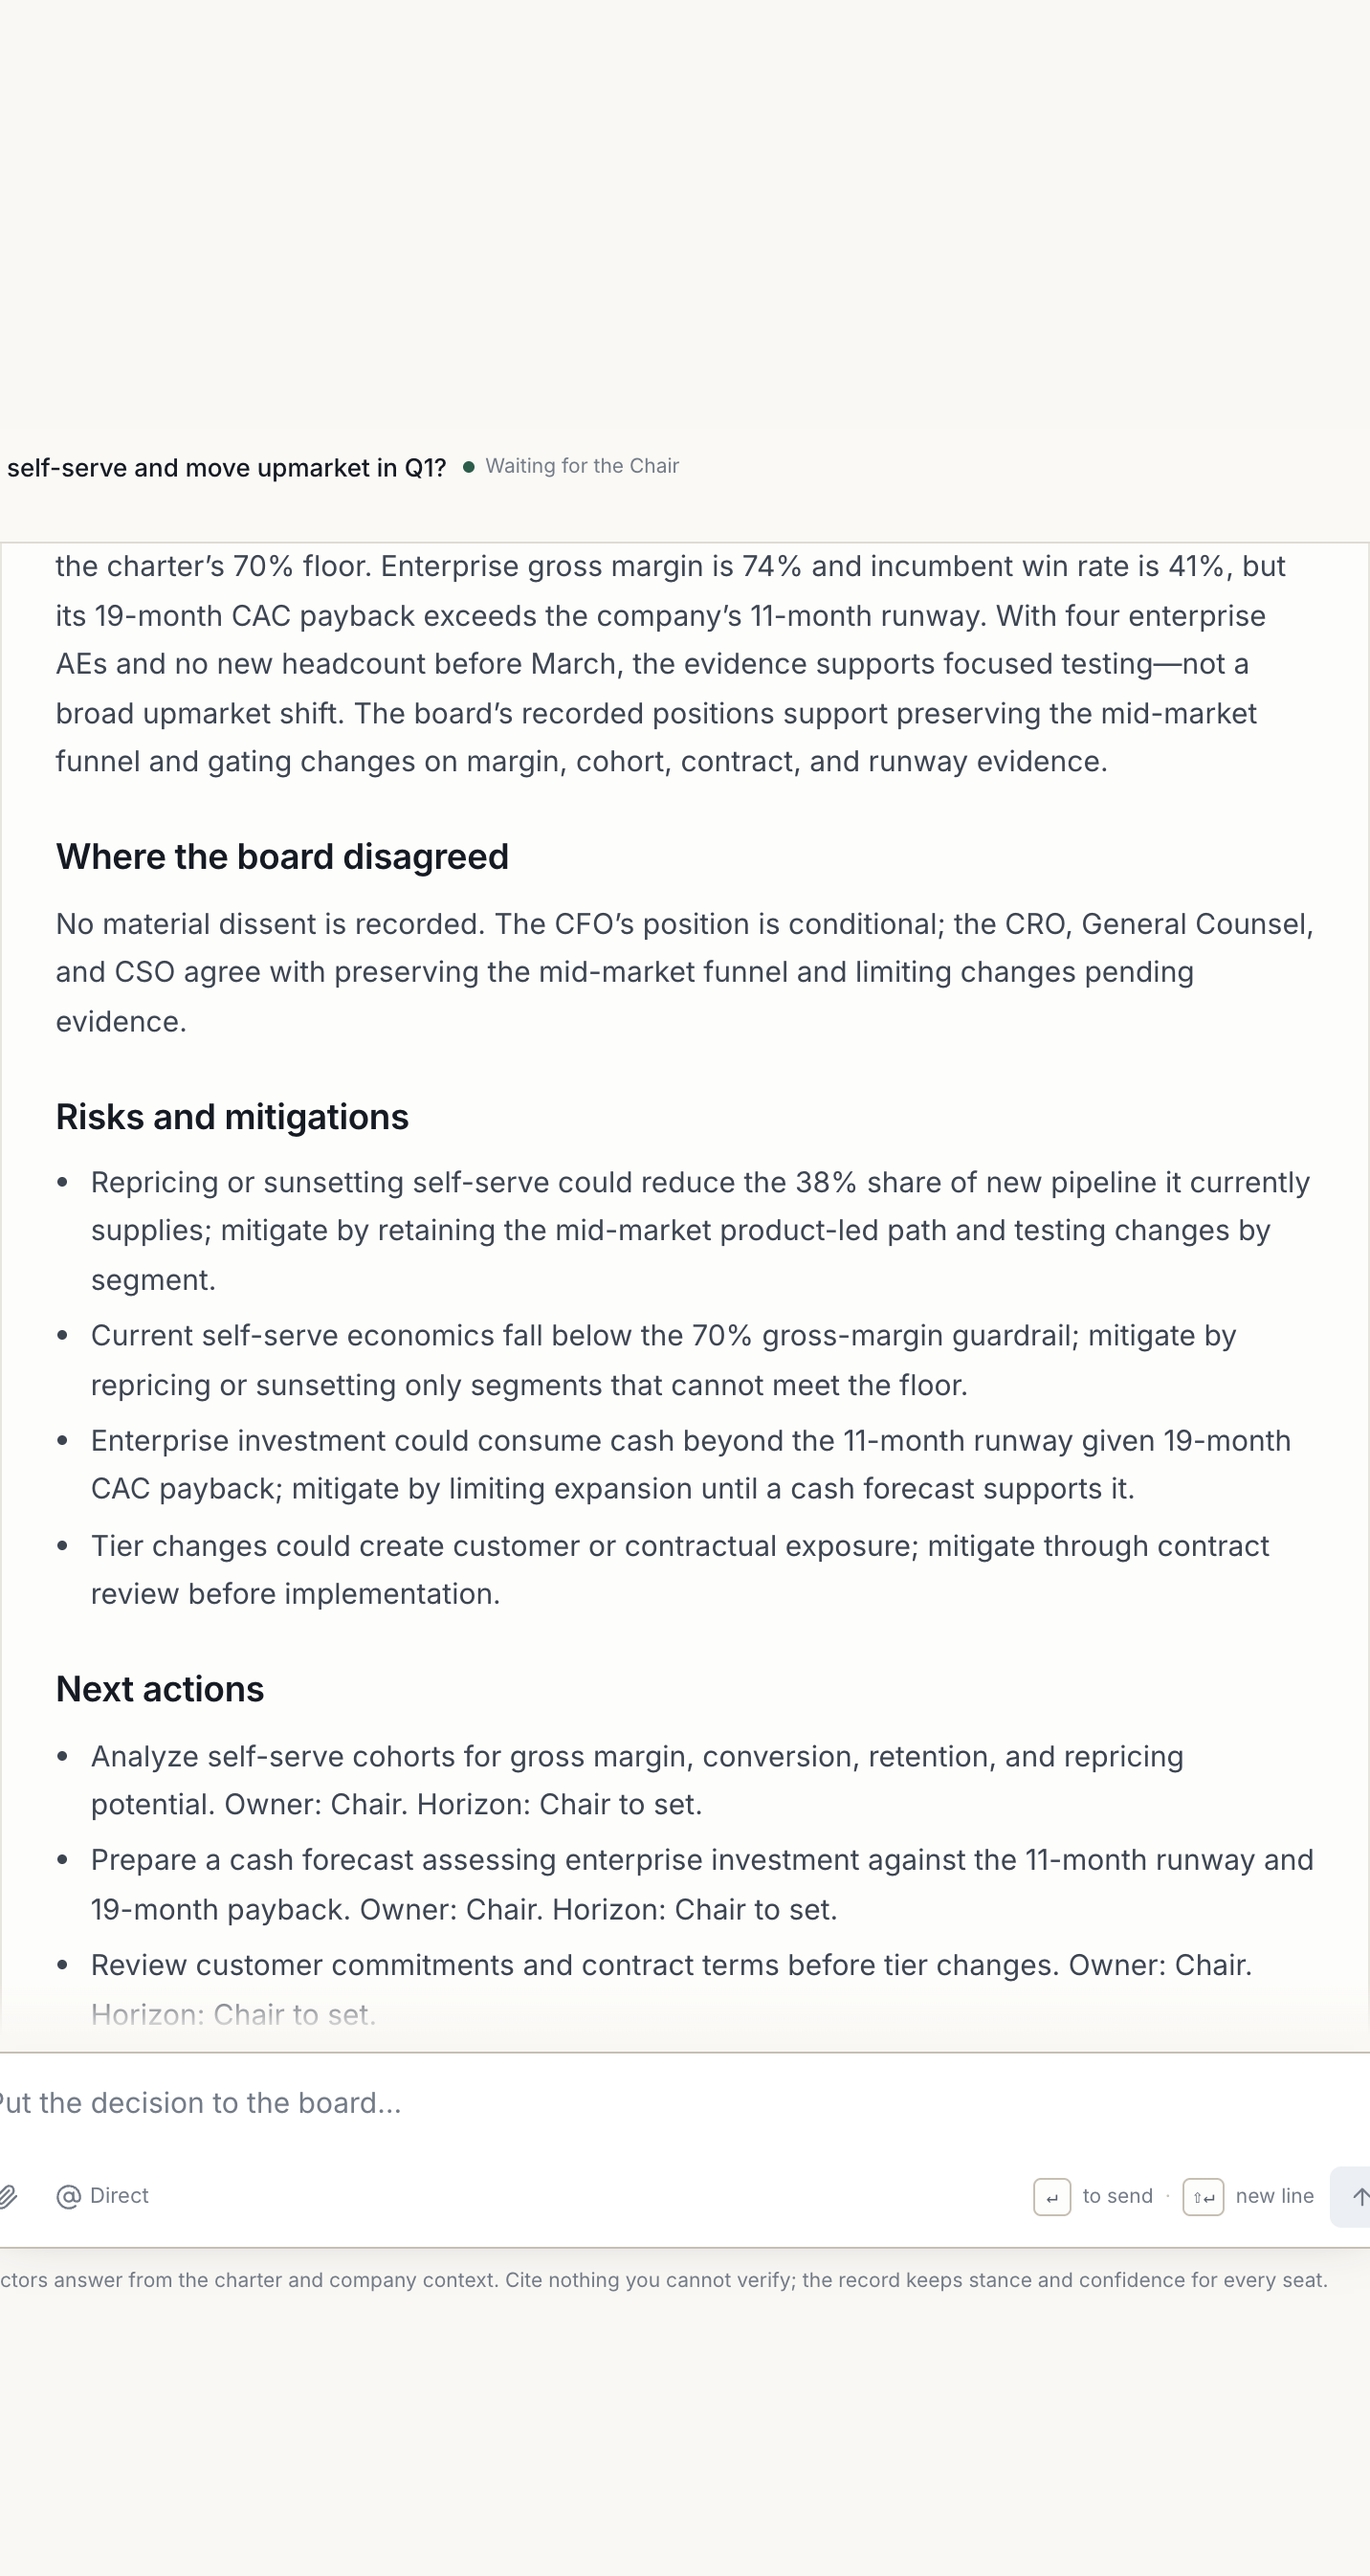
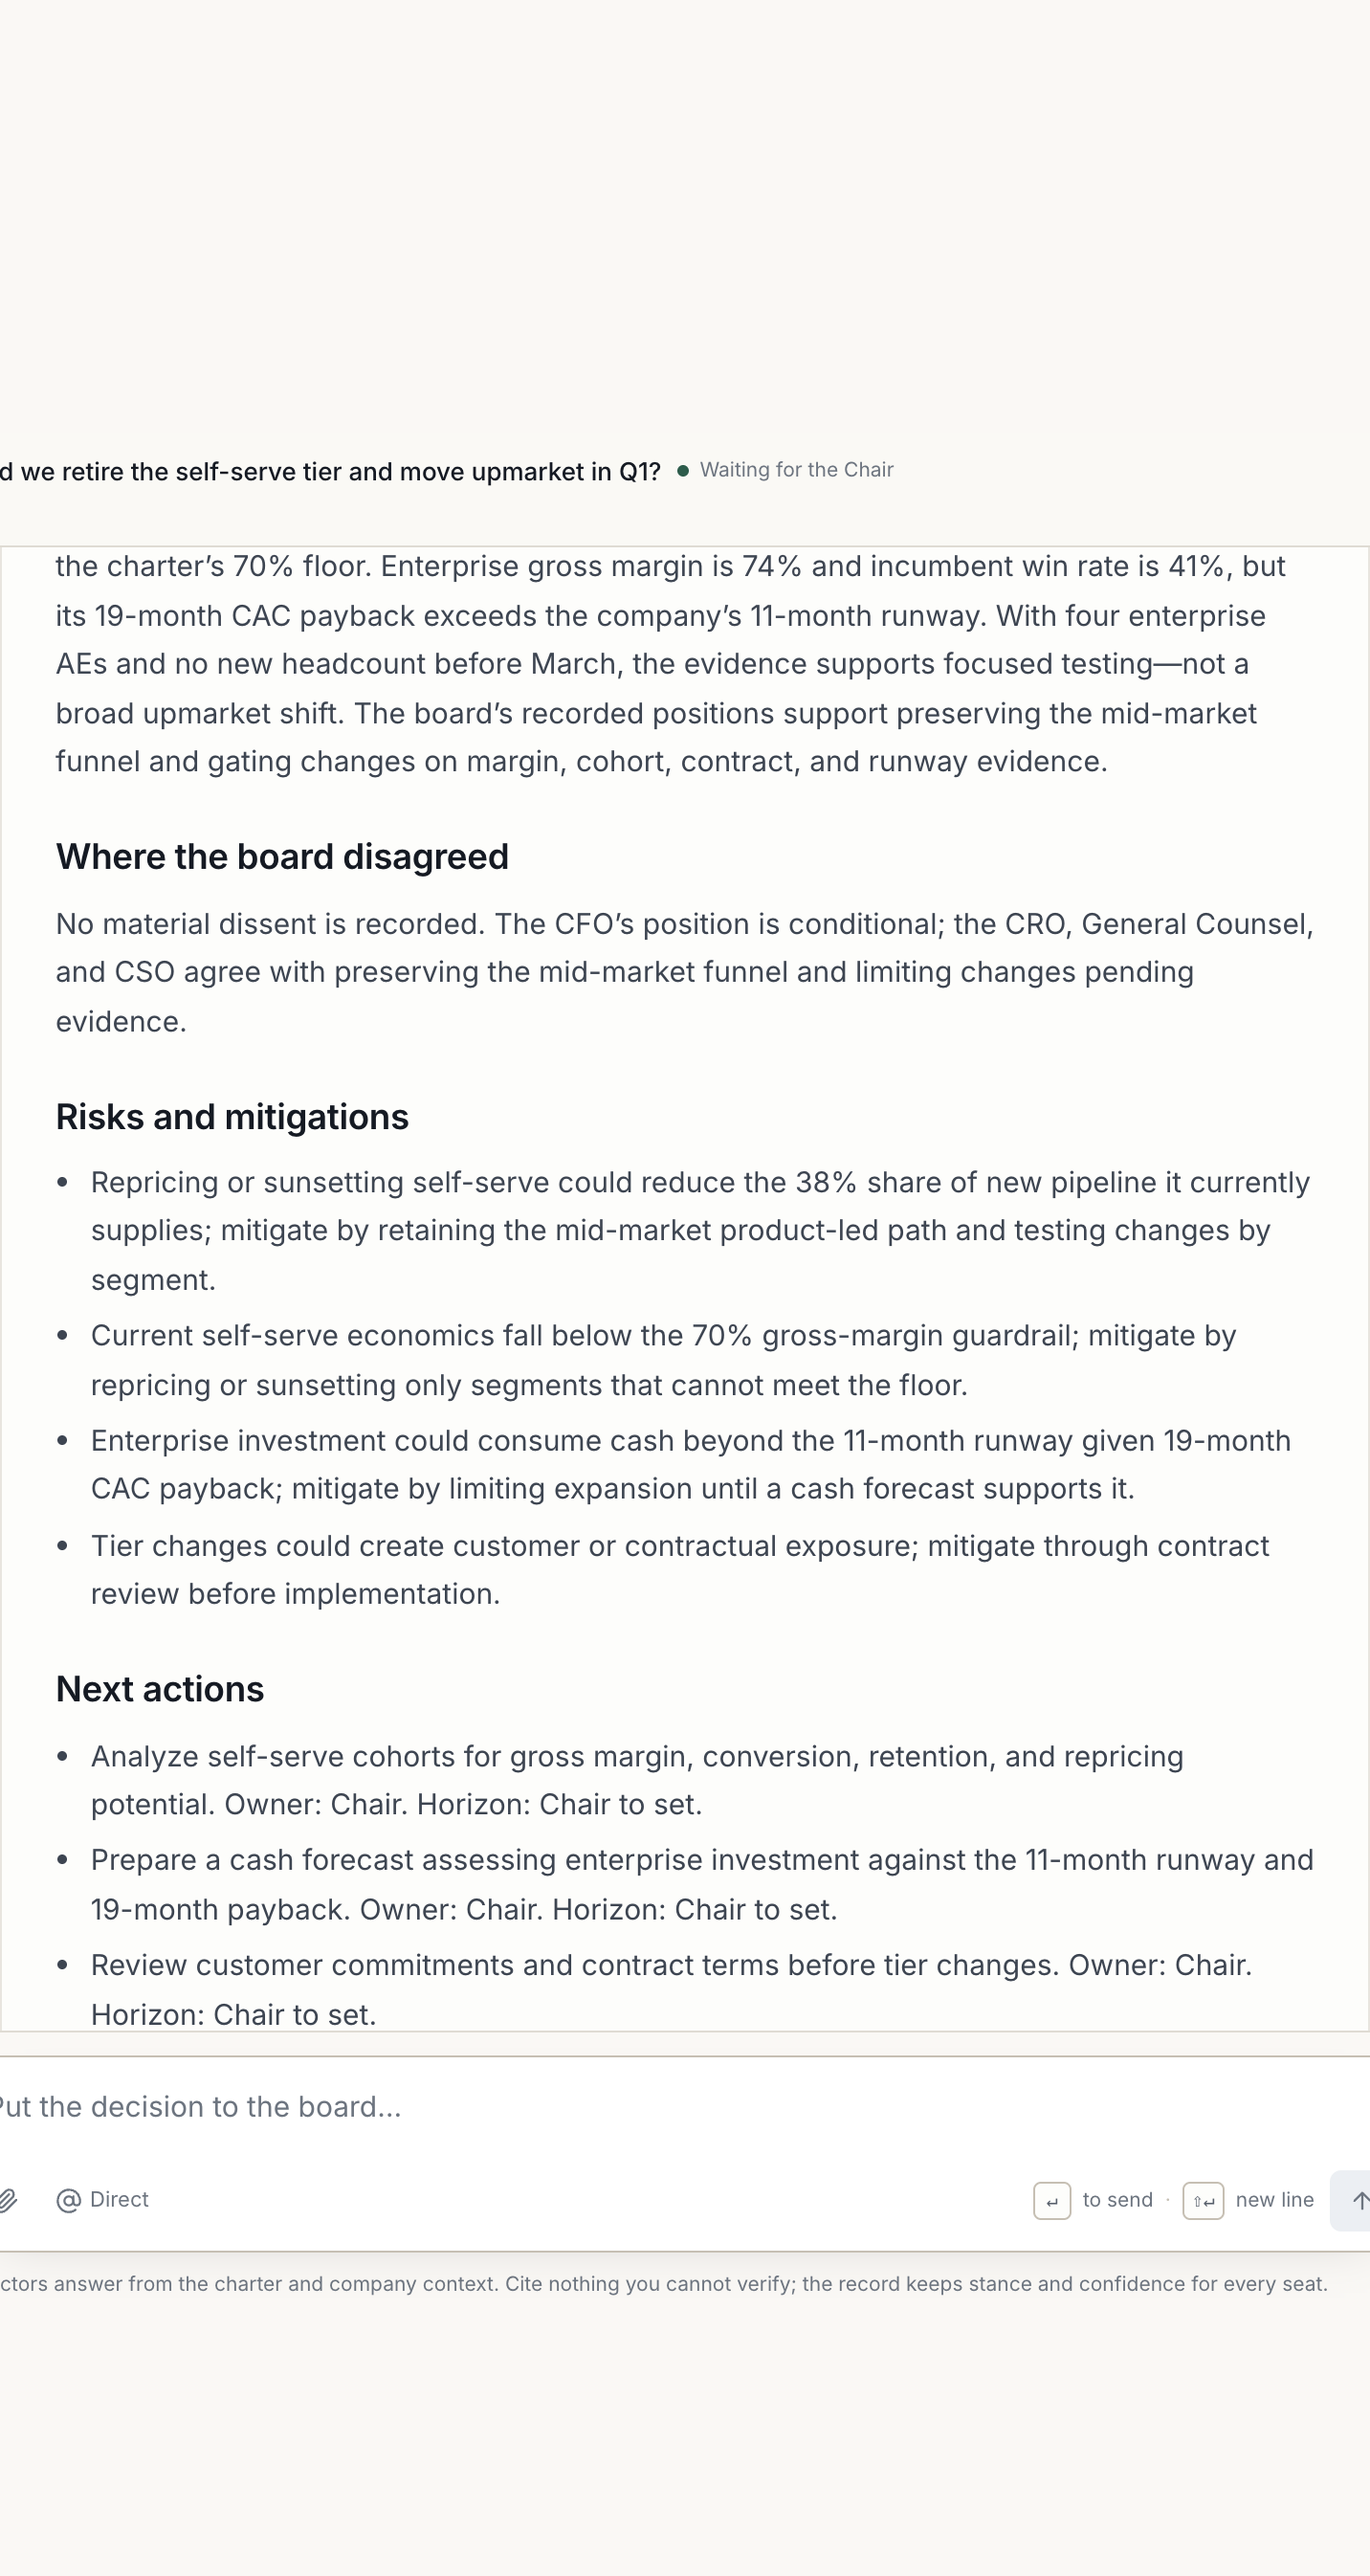
fix(onboarding): seat, convene, and brief a board in one pass
- Seat directors against the new conversation id instead of stale React state
- Cap preset seats to the plan limit and surface the limit in the empty state
- Derive a readable session title from the first sentence of the motion
- Show only the charter's guardrails under the masthead, not the question twice
- Move toasts to the top right and remove success toasts on auth
- Replace the composer fade with a hairline boundary
- Add an idempotent baseline migration runner for fresh deployments

diff --git a/client/src/pages/workspace.tsx b/client/src/pages/workspace.tsx
@@ -17,10 +17,11 @@ import {
   Users,
 } from "lucide-react";
 import { useAuth } from "@/hooks/use-auth";
+import { useToast } from "@/hooks/use-toast";
 import { useBoardRoom } from "@/hooks/use-board-room";
 import { useTheme } from "@/lib/theme";
 import { apiRequest } from "@/lib/queryClient";
-import { EXPERT_CATALOG } from "@shared/expert-catalog";
+import { EXPERT_CATALOG, TIER_EXPERT_LIMITS } from "@shared/expert-catalog";
 import { BoardModal } from "@/components/board/board-modal";
 import { CharterModal } from "@/components/board/charter-modal";
 import { CompanyModal } from "@/components/board/company-modal";
@@ -62,7 +63,7 @@ function EmptyBoard({
             autoFocus
             value={decision}
             onChange={(event) => setDecision(event.target.value)}
-            placeholder="Should we retire the self-serve tier and move upmarket in Q1? Guardrails: gross margin ≥ 70%, no new headcount before March, keep the PLG funnel for mid-market."
+            placeholder="State the decision in one or two sentences. Add the guardrails that constrain it, and the facts the board should not have to guess."
             className="min-h-[104px] border-0 bg-transparent px-2 py-1 font-display text-[17px] leading-relaxed shadow-none focus:ring-0"
           />
           <div className="flex flex-wrap items-center justify-between gap-3 border-t border-line px-2 pt-3">
@@ -79,14 +80,17 @@ function EmptyBoard({
         <div className="mt-6">
           <div className="flex items-center justify-between">
             <p className="text-[10px] font-semibold uppercase tracking-[0.14em] text-faint-ink">Choose a starting board</p>
-            <button
-              type="button"
-              onClick={() => onConvene(decision, "empty")}
-              disabled={!decision.trim() || isCreating}
-              className="text-[10.5px] text-faint-ink hover:text-ink disabled:opacity-40"
-            >
-              Seat them manually →
-            </button>
+            <div className="flex items-center gap-3">
+              <span className="hidden text-[10px] text-faint-ink sm:inline">Associate seats 3 · Executive 8</span>
+              <button
+                type="button"
+                onClick={() => onConvene(decision, "empty")}
+                disabled={!decision.trim() || isCreating}
+                className="text-[10.5px] text-faint-ink hover:text-ink disabled:opacity-40"
+              >
+                Seat them manually →
+              </button>
+            </div>
           </div>
           <div className="mt-2 grid gap-2 sm:grid-cols-2">
             {BOARD_PRESETS.map((preset) => (
@@ -110,6 +114,13 @@ function EmptyBoard({
             ))}
           </div>
         </div>
+
+        <div className="mt-10 flex flex-wrap items-center gap-x-6 gap-y-2 border-t border-line pt-4 text-[10px] uppercase tracking-[0.14em] text-faint-ink">
+          <span>Private workspace</span>
+          <span>Your model keys</span>
+          <span>Export always</span>
+          <span className="ml-auto normal-case tracking-normal">Three seats on the house, no card.</span>
+        </div>
       </div>
     </div>
   );
@@ -130,6 +141,12 @@ function SessionIntro({
   onEditCharter: () => void;
   onOpenBoard: () => void;
 }) {
+  // The masthead already states the motion. Show only the charter text that
+  // adds to it (guardrails, stop criteria) instead of repeating the question.
+  const charterRemainder = charter
+    ? (charter.startsWith(title) ? charter.slice(title.length) : charter).replace(/^[\s—–:,-]+/, "").trim()
+    : "";
+
   return (
     <div className="border-b border-line pb-7 pt-9">
       <div className="flex items-center justify-between gap-3">
@@ -141,11 +158,11 @@ function SessionIntro({
       <h1 className="mt-3 font-display text-[clamp(1.8rem,3.2vw,2.6rem)] leading-[1.08] text-ink">
         {title}
       </h1>
-      {charter ? (
+      {charterRemainder ? (
         <div className="mt-4 border-l-2 border-bronze/50 pl-4">
-          <p className="whitespace-pre-wrap text-[13.5px] leading-relaxed text-ink-soft">{charter}</p>
+          <p className="whitespace-pre-wrap text-[13.5px] leading-relaxed text-ink-soft">{charterRemainder}</p>
         </div>
-      ) : (
+      ) : !charter ? (
         <button
           type="button"
           onClick={onEditCharter}
@@ -154,7 +171,7 @@ function SessionIntro({
           This session has no charter. Write the motion and the guardrails so every director argues
           the same question.
         </button>
-      )}
+      ) : null}
       <div className="mt-5 flex flex-wrap items-center gap-2">
         <button
           type="button"
@@ -272,6 +289,7 @@ function CommandPalette({
 
 export default function WorkspacePage() {
   const { user, isLoading, logoutMutation } = useAuth();
+  const { toast } = useToast();
   const board = useBoardRoom();
   const { theme, setTheme } = useTheme();
   const queryClient = useQueryClient();
@@ -340,21 +358,28 @@ export default function WorkspacePage() {
     if (!text) return;
     setConvening(true);
     try {
-      const title = text.length > 72 ? `${text.slice(0, 69).trimEnd()}…` : text;
+      const firstSentence = text.split(/(?<=[?.!])\s/)[0] || text;
+      const title = firstSentence.length > 140 ? `${firstSentence.slice(0, 137).trimEnd()}…` : text;
       const conversation = await board.startSession(title);
       await apiRequest("PUT", `/api/protected/conversations/${conversation.id}`, { charter: text });
       const preset = BOARD_PRESETS.find((item) => item.id === presetId);
+      // A preset can list more seats than the plan allows. Seat the first N
+      // that fit; the Chair can swap seats in Board settings afterwards.
+      const seatLimit = TIER_EXPERT_LIMITS[(user?.tier as keyof typeof TIER_EXPERT_LIMITS) ?? "free"] ?? TIER_EXPERT_LIMITS.free;
       const seats = (preset?.roles ?? [])
         .map((role) => EXPERT_CATALOG.find((entry) => entry.role === role))
         .filter((entry): entry is (typeof EXPERT_CATALOG)[number] => !!entry)
+        .slice(0, seatLimit)
         .map((entry) => ({
           name: entry.role,
           role: entry.role,
           model: entry.defaultModel,
           avatarUrl: entry.color,
         }));
-      if (seats.length > 0) {
-        await board.seatExperts(seats);
+      // Seat directly against the new id: React state for activeConversation
+      // has not committed yet inside this handler.
+      for (const seat of seats) {
+        await apiRequest("POST", `/api/protected/conversations/${conversation.id}/experts`, seat);
       }
       await queryClient.invalidateQueries({ queryKey: ["/api/protected/conversations"] });
       if (!preset) setBoardOpen(true);
@@ -363,8 +388,15 @@ export default function WorkspacePage() {
           content: text,
           userId: user.id,
         });
-        board.invalidateConversation(conversation.id);
       }
+      board.selectConversation(conversation.id);
+      board.invalidateConversation(conversation.id);
+    } catch (error) {
+      toast({
+        title: "Could not convene the board",
+        description: error instanceof Error ? error.message : "Unknown error",
+        variant: "destructive",
+      });
     } finally {
       setConvening(false);
     }

diff --git a/client/src/components/ui/toast.tsx b/client/src/components/ui/toast.tsx
@@ -14,7 +14,7 @@ const ToastViewport = React.forwardRef<
   <ToastPrimitives.Viewport
     ref={ref}
     className={cn(
-      "fixed top-0 z-[100] flex max-h-screen w-full flex-col-reverse p-4 sm:bottom-0 sm:right-0 sm:top-auto sm:flex-col md:max-w-[420px]",
+      "fixed right-3 top-[68px] z-[100] flex max-h-[calc(100vh-84px)] w-[calc(100%-1.5rem)] flex-col gap-2 p-0 sm:max-w-[360px]",
       className
     )}
     {...props}
@@ -23,7 +23,7 @@ const ToastViewport = React.forwardRef<
 ToastViewport.displayName = ToastPrimitives.Viewport.displayName
 
 const toastVariants = cva(
-  "group pointer-events-auto relative flex w-full items-center justify-between space-x-4 overflow-hidden rounded-md border p-6 pr-8 shadow-lg transition-all data-[swipe=cancel]:translate-x-0 data-[swipe=end]:translate-x-[var(--radix-toast-swipe-end-x)] data-[swipe=move]:translate-x-[var(--radix-toast-swipe-move-x)] data-[swipe=move]:transition-none data-[state=open]:animate-in data-[state=closed]:animate-out data-[swipe=end]:animate-out data-[state=closed]:fade-out-80 data-[state=closed]:slide-out-to-right-full data-[state=open]:slide-in-from-top-full data-[state=open]:sm:slide-in-from-bottom-full",
+  "group pointer-events-auto relative flex w-full items-center justify-between space-x-4 overflow-hidden rounded-lg border border-line bg-surface p-4 pr-8 text-ink shadow-lifted transition-all data-[swipe=cancel]:translate-x-0 data-[swipe=end]:translate-x-[var(--radix-toast-swipe-end-x)] data-[swipe=move]:translate-x-[var(--radix-toast-swipe-move-x)] data-[swipe=move]:transition-none data-[state=open]:animate-in data-[state=closed]:animate-out data-[swipe=end]:animate-out data-[state=closed]:fade-out-80 data-[state=closed]:slide-out-to-right-full data-[state=open]:slide-in-from-top-full data-[state=open]:sm:slide-in-from-bottom-full",
   {
     variants: {
       variant: {

diff --git a/client/src/hooks/use-auth.tsx b/client/src/hooks/use-auth.tsx
@@ -38,10 +38,6 @@ export function AuthProvider({ children }: { children: ReactNode }) {
     },
     onSuccess: (user: SelectUser) => {
       queryClient.setQueryData(["/api/user"], user);
-      toast({
-        title: "Login successful",
-        description: `Welcome back, ${user.username}.`,
-      });
     },
     onError: (error: Error) => {
       toast({
@@ -59,10 +55,6 @@ export function AuthProvider({ children }: { children: ReactNode }) {
     },
     onSuccess: (user: SelectUser) => {
       queryClient.setQueryData(["/api/user"], user);
-      toast({
-        title: "Registration successful",
-        description: "Your workspace is ready. State the first decision.",
-      });
     },
     onError: (error: Error) => {
       toast({

diff --git a/client/src/components/board/composer.tsx b/client/src/components/board/composer.tsx
@@ -97,8 +97,7 @@ export function Composer({
   };
 
   return (
-    <div className="relative px-4 pb-4 pt-2 sm:px-8 sm:pb-6">
-      <div className="pointer-events-none absolute inset-x-0 -top-7 h-7 bg-gradient-to-t from-paper to-transparent" />
+    <div className="relative border-t border-line bg-paper px-4 pb-4 pt-3 sm:px-8 sm:pb-6">
       {suggestions.length > 0 && (
         <div className="absolute bottom-[calc(100%-4px)] left-4 z-30 w-72 overflow-hidden rounded-lg border border-line bg-surface shadow-lifted sm:left-8">
           <p className="border-b border-line px-3 py-1.5 text-[10px] font-medium uppercase tracking-[0.12em] text-faint-ink">
